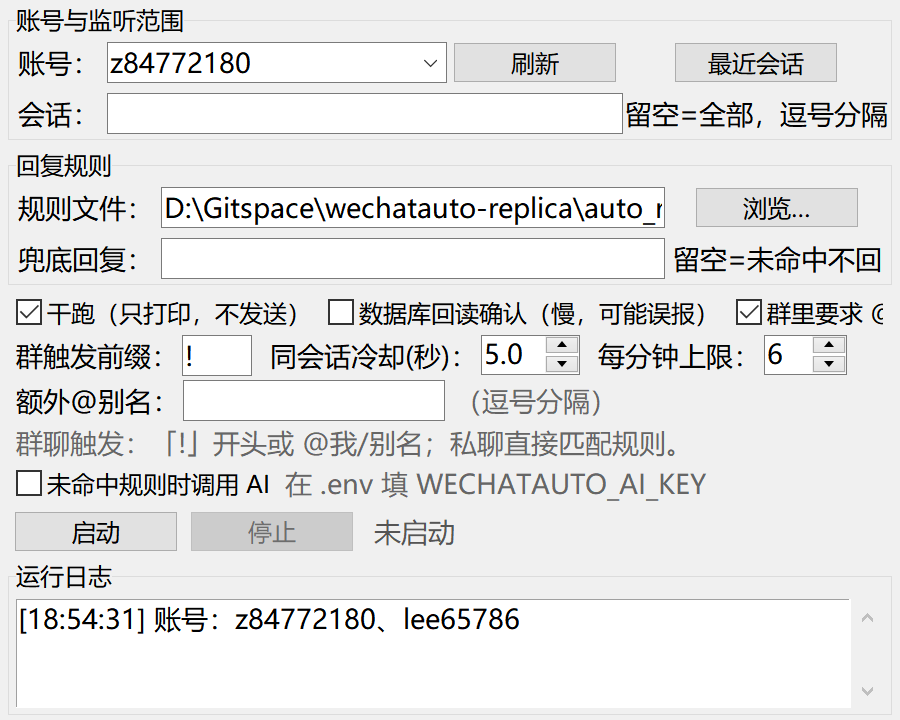
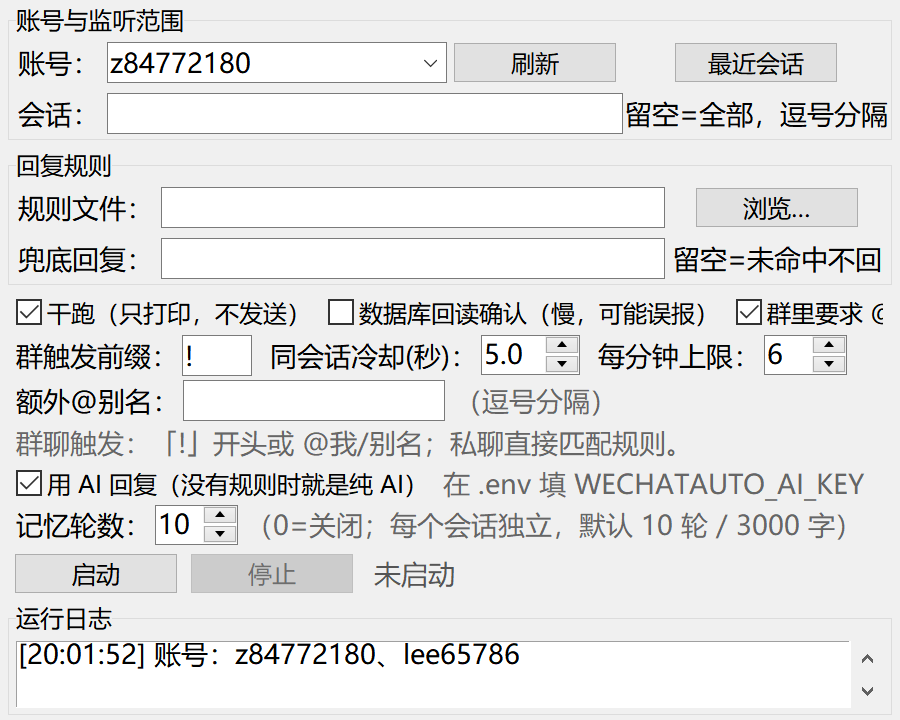
feat(auto-reply): 每会话记忆 + 纯 AI 模式 + 默认禁用 OCR 兜底
- chat_memory: 私聊/群各自独立历史，默认 10 轮/3000 字，JSON 持久化
- ai_reply: 支持 history，多轮上下文
- demo_auto_reply: --ai 可无规则（纯 AI）；--memory-turns/--memory-chars/--no-memory
- auto_reply_gui: 默认 AI、记忆轮数设置
- 默认 WxParam.ENABLE_OCR=False：UIA 失败时宁可报错，不在界面上盲点

Changed region(s): [[0.0, 0.6417, 0.9644, 0.9472], [0.1867, 0.275, 0.7467, 0.3056]]

diff --git a/wechatauto/demo_auto_reply.py b/wechatauto/demo_auto_reply.py
@@ -429,7 +429,7 @@ class AutoReplier:
                  cooldown: float = 5.0, max_per_minute: int = 6,
                  max_age: float = 180.0, ignore=(), service_prefixes=(),
                  service_suffixes=(), mention_names=(), echo_self: bool = False,
-                 ai_fn=None):
+                 ai_fn=None, memory=None):
         self.db = db
         self.rules = rules
         self.sender = sender
@@ -438,6 +438,7 @@ class AutoReplier:
         self.max_per_minute = max_per_minute
         self.max_age = max_age
         self.ai_fn = ai_fn
+        self.memory = memory
         self.own_wxid = (db.get_self_info() or {}).get("username") or db.wxid or ""
         self.own_names = set(mention_names) | {self.own_wxid}
         try:
@@ -542,8 +543,15 @@ class AutoReplier:
 
         reply = matched
         if reply is None and use_ai:
-            ai_text = self.ai_fn(text_for_match, sender_name, chat_name)
+            history = self.memory.get(chat) if self.memory else None
+            # 群里多人共用一个会话记忆，正文带上发送者，模型才分得清谁说的
+            user_line = ("%s：%s" % (sender_name, text_for_match)
+                         if is_group else text_for_match)
+            ai_text = self.ai_fn(user_line, sender_name, chat_name, history)
             if ai_text:
+                if self.memory:
+                    self.memory.add(chat, "user", user_line)
+                    self.memory.add(chat, "assistant", ai_text)
                 self.log("AI 回复：%s | %s: %s -> %s"
                          % (chat_name, sender_name, text_for_match[:40], ai_text[:60]))
                 self.sender.submit(chat, chat_name, ai_text)
@@ -624,7 +632,16 @@ def build_parser() -> argparse.ArgumentParser:
                    help="超过这个秒数的旧消息不回（0=不限）")
     p.add_argument("--dry-run", action="store_true", help="只打印将回复的内容，不点微信窗口")
     p.add_argument("--ai", action="store_true",
-                   help="未命中规则时调用 OpenAI 兼容接口（Key 读 WECHATAUTO_AI_KEY）")
+                   help="调用 OpenAI 兼容接口（未命中规则时；没有规则就是纯 AI）")
+    p.add_argument("--ocr", action="store_true",
+                   help="允许 OCR 兜底（默认关闭：UIA 失败时宁可报错，也不在界面上盲点）")
+    p.add_argument("--memory-turns", type=int, default=10,
+                   help="每个会话保留的对话轮数（0=关闭记忆）")
+    p.add_argument("--memory-chars", type=int, default=3000,
+                   help="每个会话记忆的总字符上限")
+    p.add_argument("--memory-file", default="",
+                   help="记忆文件路径（默认 memory/auto_reply_<账号>.json）")
+    p.add_argument("--no-memory", action="store_true", help="关闭会话记忆")
     p.add_argument("--verify", dest="verify", action="store_true",
                    help="发送后回读数据库确认（默认关闭：微信落库可能晚于 8 秒，会误报）")
     p.add_argument("--no-verify", dest="verify", action="store_false",
@@ -645,6 +662,11 @@ def main(argv=None) -> int:
         return self_test()
 
     log = Log(args.log_file)
+    # 自动回复默认关闭 OCR 兜底：UIA 打不开会话时宁可失败，也不要在界面上盲点
+    # （盲点可能最小化几十个窗口，甚至点到退出登录）。
+    from wechatauto.param import WxParam
+    WxParam.ENABLE_OCR = bool(args.ocr)
+    log("OCR 兜底：%s" % ("开启" if args.ocr else "关闭（默认，避免盲点）"))
 
     # 规则
     rules = RuleSet.from_json(args.rules) if args.rules else RuleSet()
@@ -656,8 +678,8 @@ def main(argv=None) -> int:
         rules.group_mention_any = True
     if args.no_mention_only:
         rules.group_require_mention = False
-    if not rules.rules and not rules.default_reply:
-        log("没有可用规则：用 --rules 或 --default-reply 指定。先跑 --self-test 看格式。")
+    if not rules.rules and not rules.default_reply and not args.ai:
+        log("没有可回复内容：用 --rules / --default-reply，或加 --ai 走纯 AI。")
         return 2
 
     # 监听目标
@@ -667,6 +689,19 @@ def main(argv=None) -> int:
     db = WeChatDB(account=args.account) if args.account else WeChatDB()
     info = db.get_self_info()
     log("账号：%s（%s）" % (info.get("nick_name") or info.get("username"), db.wxid))
+
+    memory = None
+    if not args.no_memory and args.memory_turns > 0:
+        from wechatauto.chat_memory import ChatMemory
+        mem_path = args.memory_file or os.path.join(
+            os.path.dirname(os.path.dirname(os.path.abspath(__file__))),
+            "memory", "auto_reply_%s.json" % db.account)
+        memory = ChatMemory(mem_path, max_turns=args.memory_turns,
+                            max_chars=args.memory_chars)
+        log("会话记忆：每会话 %d 轮 / %d 字（%s）"
+            % (args.memory_turns, args.memory_chars, mem_path))
+    else:
+        log("会话记忆：关闭")
 
     targets: List[str] = []
     if args.all:
@@ -712,6 +747,7 @@ def main(argv=None) -> int:
         ignore=args.ignore,
         mention_names=args.mention_name,
         ai_fn=ai_fn,
+        memory=memory,
     )
 
     listener = Listener(db, interval=max(0.2, args.interval))

diff --git a/wechatauto/auto_reply_gui.py b/wechatauto/auto_reply_gui.py
@@ -92,7 +92,7 @@ class AutoReplyApp:
         cfg.columnconfigure(1, weight=1)
 
         ttk.Label(cfg, text="规则文件：").grid(row=0, column=0, sticky="w", padx=6, pady=6)
-        self.rules_var = tk.StringVar(value=_default_rules_path())
+        self.rules_var = tk.StringVar(value="")
         ttk.Entry(cfg, textvariable=self.rules_var).grid(row=0, column=1, sticky="we")
         ttk.Button(cfg, text="浏览…", command=self._pick_rules).grid(row=0, column=2, padx=6)
 
@@ -136,12 +136,22 @@ class AutoReplyApp:
 
         row5 = ttk.Frame(opts)
         row5.pack(fill="x", pady=(2, 0))
-        self.ai_var = tk.BooleanVar(value=False)
-        ttk.Checkbutton(row5, text="未命中规则时调用 AI",
+        self.ai_var = tk.BooleanVar(value=True)
+        ttk.Checkbutton(row5, text="用 AI 回复（没有规则时就是纯 AI）",
                         variable=self.ai_var).pack(side="left", padx=6)
         ttk.Label(row5, foreground="#666",
                   text="在 .env 填 WECHATAUTO_AI_KEY"
                   ).pack(side="left", padx=(4, 0))
+
+        row6 = ttk.Frame(opts)
+        row6.pack(fill="x", pady=(2, 0))
+        ttk.Label(row6, text="记忆轮数：").pack(side="left", padx=(6, 2))
+        self.memory_turns_var = tk.IntVar(value=10)
+        ttk.Spinbox(row6, from_=0, to=50, textvariable=self.memory_turns_var,
+                    width=4).pack(side="left")
+        ttk.Label(row6, foreground="#666",
+                  text="（0=关闭；每个会话独立，默认 10 轮 / 3000 字）"
+                  ).pack(side="left", padx=(6, 0))
 
         ctrl = ttk.Frame(self.root)
         ctrl.pack(fill="x", **pad)
@@ -197,8 +207,8 @@ class AutoReplyApp:
             return
         rules_path = self.rules_var.get().strip()
         default = self.default_var.get().strip()
-        if not rules_path and not default:
-            messagebox.showwarning("提示", "规则文件和兜底回复至少填一个，否则没有可回的内容")
+        if not rules_path and not default and not self.ai_var.get():
+            messagebox.showwarning("提示", "规则文件、兜底回复、AI 至少开一个，否则没有可回的内容")
             return
         if rules_path and not os.path.exists(rules_path):
             messagebox.showwarning("提示", "规则文件不存在：\n%s" % rules_path)
@@ -215,6 +225,7 @@ class AutoReplyApp:
                               self.mention_names_var.get().replace("，", ",").split(",")
                               if x.strip()],
             "ai": bool(self.ai_var.get()),
+            "memory_turns": max(0, int(self.memory_turns_var.get())),
             "prefix": self.prefix_var.get(),
             "cooldown": max(0.0, float(self.cool_var.get())),
             "permin": max(1, int(self.permin_var.get())),
@@ -245,6 +256,11 @@ class AutoReplyApp:
                                                 resolve_chat)
         listener = sender = None
         try:
+            # 自动回复默认不让 OCR 兜底：UIA 打不开会话时宁可失败，
+            # 也不要盲点界面（盲点可能最小化一堆窗口，甚至点到退出登录）。
+            from wechatauto.param import WxParam
+            WxParam.ENABLE_OCR = False
+            self._log("OCR 兜底：关闭（UIA 打不开会话时会报错，不会盲点）")
             self._log("加载账号数据库（首次可能需要 10–60 秒）…")
             db = WeChatDB(account=cfg["account"])
             info = db.get_self_info()
@@ -275,12 +291,23 @@ class AutoReplyApp:
                 if ai_fn is None:
                     self._log("已勾选 AI，但没读到 WECHATAUTO_AI_KEY，本次不使用 AI")
                 else:
-                    self._log("AI 已启用：规则未命中时调用模型")
+                    self._log("AI 已启用：没命中规则时调用模型")
+            memory = None
+            if cfg["memory_turns"] > 0:
+                from wechatauto.chat_memory import ChatMemory
+                mem_path = os.path.join(
+                    os.path.dirname(os.path.dirname(os.path.abspath(__file__))),
+                    "memory", "auto_reply_%s.json" % cfg["account"])
+                memory = ChatMemory(mem_path, max_turns=cfg["memory_turns"],
+                                    max_chars=3000)
+                self._log("会话记忆：每会话 %d 轮 / 3000 字" % cfg["memory_turns"])
+            else:
+                self._log("会话记忆：关闭")
             replier = AutoReplier(db, rules, sender, self._log,
                                   cooldown=cfg["cooldown"],
                                   max_per_minute=cfg["permin"],
                                   mention_names=cfg["mention_names"],
-                                  ai_fn=ai_fn)
+                                  ai_fn=ai_fn, memory=memory)
             listener = Listener(db, interval=1.0)
 
             raw = [x.strip() for x in cfg["chats"].replace("，", ",").split(",") if x.strip()]

diff --git a/wechatauto/chat_memory.py b/wechatauto/chat_memory.py
@@ -1,0 +1,104 @@
+# -*- coding: utf-8 -*-
+"""自动回复的会话记忆：每个会话（私聊/群）一份，持久化到 JSON。
+
+设计：
+
+- **按 chat username 隔离**：私聊是 wxid，群是 ``xxx@chatroom``，互不串味；
+- **长度上限**：``max_turns`` 轮（一轮 = 用户 + 助手两条）且总字符不超过
+  ``max_chars``，超出从最旧的开始丢；
+- 只保存 ``role`` / ``content``，不写时间戳等无关字段；
+- 每次追加后原子落盘（tmp + replace），进程重启后还在；
+- 内容只在本机，不会额外上传（走 AI 时才会随请求发给模型服务商）。
+"""
+from __future__ import annotations
+
+import json
+import os
+import threading
+from typing import Dict, List, Optional
+
+
+class ChatMemory:
+    def __init__(self, path: str, max_turns: int = 10, max_chars: int = 3000):
+        self.path = path
+        self.max_turns = max(1, int(max_turns))
+        self.max_chars = max(200, int(max_chars))
+        self._lock = threading.RLock()
+        self._data: Dict[str, List[dict]] = self._load()
+
+    # -- 持久化 --------------------------------------------------------
+    def _load(self) -> Dict[str, List[dict]]:
+        try:
+            with open(self.path, "r", encoding="utf-8") as f:
+                raw = json.load(f)
+        except (OSError, ValueError):
+            return {}
+        chats = raw.get("chats") if isinstance(raw, dict) else None
+        if not isinstance(chats, dict):
+            return {}
+        out: Dict[str, List[dict]] = {}
+        for chat, msgs in chats.items():
+            if not isinstance(msgs, list):
+                continue
+            clean = [m for m in msgs
+                     if isinstance(m, dict)
+                     and m.get("role") in ("user", "assistant")
+                     and isinstance(m.get("content"), str)]
+            if clean:
+                out[str(chat)] = clean
+        return out
+
+    def _save(self) -> None:
+        payload = {"version": 1, "chats": self._data}
+        try:
+            os.makedirs(os.path.dirname(os.path.abspath(self.path)), exist_ok=True)
+            tmp = self.path + ".tmp"
+            with open(tmp, "w", encoding="utf-8") as f:
+                json.dump(payload, f, ensure_ascii=False, indent=0)
+            os.replace(tmp, self.path)
+        except OSError:
+            pass
+
+    # -- 读写 ------------------------------------------------------------
+    def get(self, chat: str) -> List[dict]:
+        """返回该会话的历史消息副本（可直接放进 API 的 messages）。"""
+        with self._lock:
+            return [dict(m) for m in self._data.get(chat, [])]
+
+    def add(self, chat: str, role: str, content: str) -> None:
+        content = (content or "").strip()
+        if not content or role not in ("user", "assistant"):
+            return
+        with self._lock:
+            arr = self._data.setdefault(chat, [])
+            arr.append({"role": role, "content": content})
+            self._trim(arr)
+            self._save()
+
+    def _trim(self, arr: List[dict]) -> None:
+        # 1) 轮数上限：保留最近 max_turns 轮（2*max_turns 条）
+        keep = self.max_turns * 2
+        if len(arr) > keep:
+            del arr[:len(arr) - keep]
+        # 2) 字符上限：从最旧开始丢，至少保留最近一轮
+        total = sum(len(m["content"]) for m in arr)
+        while total > self.max_chars and len(arr) > 2:
+            total -= len(arr.pop(0)["content"])
+
+    def clear(self, chat: Optional[str] = None) -> None:
+        with self._lock:
+            if chat is None:
+                self._data.clear()
+            else:
+                self._data.pop(chat, None)
+            self._save()
+
+    def stats(self, chat: str) -> dict:
+        with self._lock:
+            arr = self._data.get(chat, [])
+            return {
+                "messages": len(arr),
+                "chars": sum(len(m["content"]) for m in arr),
+                "max_turns": self.max_turns,
+                "max_chars": self.max_chars,
+            }

diff --git a/wechatauto/ai_reply.py b/wechatauto/ai_reply.py
@@ -37,18 +37,27 @@ def _env(name: str, default: str = "") -> str:
 
 
 def _chat(base: str, key: str, model: str, system: str,
-          text: str, sender: str, chat: str, timeout: float) -> Optional[str]:
+          text: str, sender: str, chat: str, timeout: float,
+          history: Optional[list] = None) -> Optional[str]:
     url = base.rstrip("/") + "/chat/completions"
+    messages = [{"role": "system", "content": system}]
+    for m in history or []:
+        if not isinstance(m, dict):
+            continue
+        role = m.get("role")
+        content = m.get("content")
+        if role in ("user", "assistant") and isinstance(content, str) and content.strip():
+            messages.append({"role": role, "content": content})
+    messages.append({
+        "role": "user",
+        "content": "聊天对象：%s\n发送者：%s\n对方消息：%s\n请直接给出回复内容。"
+                   % (chat, sender, text),
+    })
     payload = {
         "model": model,
-        "messages": [
-            {"role": "system", "content": system},
-            {"role": "user", "content":
-                "聊天对象：%s\n发送者：%s\n对方消息：%s\n请直接给出回复内容。"
-                % (chat, sender, text)},
-        ],
+        "messages": messages,
         "temperature": 0.7,
-        "max_tokens": 200,
+        "max_tokens": 300,
     }
     req = urllib.request.Request(
         url,
@@ -72,7 +81,7 @@ def _chat(base: str, key: str, model: str, system: str,
 def make_reply_fn(base: Optional[str] = None, key: Optional[str] = None,
                   model: Optional[str] = None, system: Optional[str] = None,
                   timeout: Optional[float] = None
-                  ) -> Optional[Callable[[str, str, str], Optional[str]]]:
+                  ) -> Optional[Callable[..., Optional[str]]]:
     """构造 ``fn(text, sender, chat) -> reply|None``；没配 Key 返回 None。"""
     load_dotenv()          # .env 只补缺失项，系统环境变量优先
     key = (key or _env("WECHATAUTO_AI_KEY"))
@@ -87,7 +96,9 @@ def make_reply_fn(base: Optional[str] = None, key: Optional[str] = None,
     except ValueError:
         timeout = 20.0
 
-    def fn(text: str, sender: str, chat: str) -> Optional[str]:
-        return _chat(base, key, model, system, text, sender, chat, timeout)
+    def fn(text: str, sender: str, chat: str,
+           history: Optional[list] = None) -> Optional[str]:
+        return _chat(base, key, model, system, text, sender, chat,
+                     timeout, history=history)
 
     return fn

diff --git a/AUTO_REPLY.md b/AUTO_REPLY.md
@@ -133,6 +133,32 @@ notepad .env
 匹配顺序是 **规则命中 → AI → 兜底回复**。AI 调用在「每个会话自己的监听线程」里同步进行
 （带超时），只影响该会话，不会阻塞数据库轮询；超时/失败会退回兜底回复。
 
+### 纯 AI 模式（不用模板）
+
+- GUI：「规则文件」留空、「兜底回复」留空、勾上「用 AI 回复」；
+- 命令行：`--ai`，不传 `--rules` / `--default-reply`。
+
+这样每条消息都会走 AI。默认还会带上该会话最近 10 轮记忆（见下）。
+
+### 会话记忆（每个会话独立）
+
+- **私聊一份、每个群各一份**，按会话 username 隔离，互不串味；
+- 群里用户消息会带发送者前缀（如 `木笛：你好`），模型能分清是谁说的；
+- 默认 **10 轮 / 3000 字**，超出从最旧的丢；可在 GUI「记忆轮数」或
+  `--memory-turns` 调，`0` 关闭；字符上限 `--memory-chars`；
+- 持久化到 `memory/auto_reply_<账号>.json`（`memory/` 已被 gitignore），
+  重启后仍记得；想清空直接删这个文件；
+- 只有在 AI 成功生成回复时才写入一轮（用户消息 + 助手回复）。
+
+> 例：私聊里说「我的暗号是苹果」，下一句问「我的暗号是什么」能答出苹果；
+> 同一个群里的记忆是另一份，不会知道私聊里的暗号。
+
+### 默认关闭 OCR 兜底
+
+自动回复**默认不允许 OCR 盲点**（`WxParam.ENABLE_OCR=False`）：UIA 打不开会话时
+直接报错，不会在界面上乱点（盲点可能最小化一堆窗口，甚至点到退出登录）。
+确实需要 OCR 时，命令行加 `--ocr`（不推荐常开）。
+
 Ollama 例子（写进 `.env`）：
 
 ```ini
